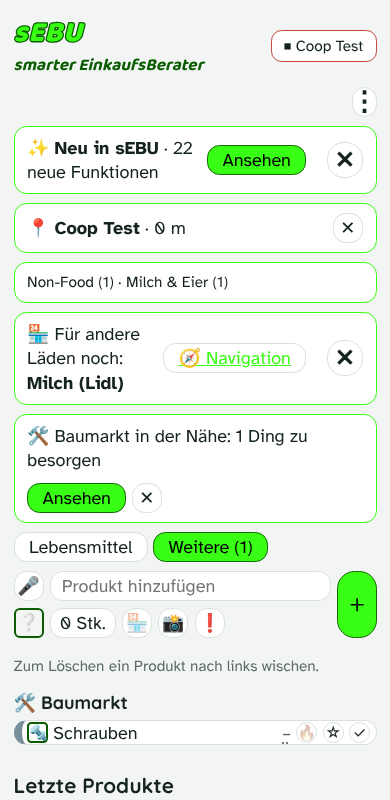
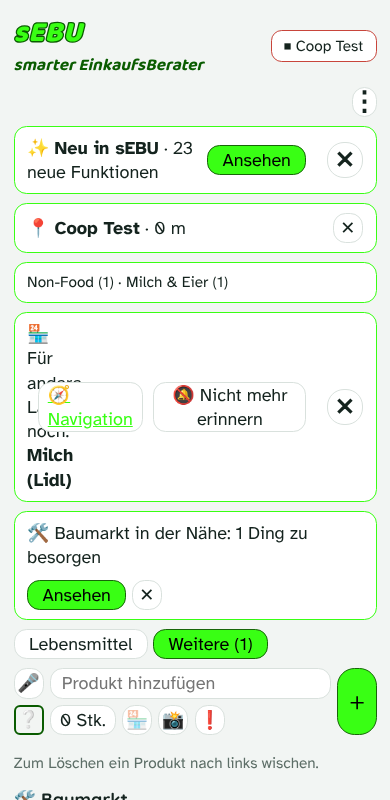
Erinnerung andere Läden: Nicht mehr erinnern
Claude-Session: https://claude.ai/code/session_01D8YzSZq49mBYGwQ71jG7sa

diff --git a/index.html b/index.html
@@ -690,9 +690,10 @@ var REMK=[['open','📲','Bei jedem Öffnen der App'],['start','🛒','Vor dem E
 var remOpen=true,remHid=false;
 function remOf(i){var r=i.rem||S.set.rem||{};return r}
 function otherItems(){var st=S.shop;return S.items.filter(function(i){if(!hasShop(i))return false;if(st){var k=shopNames(i);return k.indexOf(st.store)<0&&k.indexOf(st.chain)<0}return !curMatch(i)})}
-function remBanner(){var l=otherItems().filter(function(i){var r=remOf(i);return r.always||(r.open&&remOpen&&!remHid)||(r.start&&S.shop&&!S.shop.remSeen)});if(!l.length)return'';
+function remList(){return otherItems().filter(function(i){var r=remOf(i);return r.always||(r.open&&remOpen&&!remHid)||(r.start&&S.shop&&!S.shop.remSeen)})}
+function remBanner(){var l=remList();if(!l.length)return'';
  var fix=l.every(function(i){return remOf(i).always}),n=shopNames(l[0])[0];
- return'<div class="ban" style="flex-wrap:nowrap;align-items:center"><span style="flex:1;min-width:0">🏪 '+t('Für andere Läden noch')+': <b>'+esc(itemsTxt(l))+'</b></span>'+mapBtn(n)+(fix?'':'<button class="btn sq dealxb" data-a="remx" aria-label="'+t('Erinnerung ausblenden')+'">✕</button>')+'</div>'}
+ return'<div class="ban" style="flex-wrap:nowrap;align-items:center"><span style="flex:1;min-width:0">🏪 '+t('Für andere Läden noch')+': <b>'+esc(itemsTxt(l))+'</b></span>'+mapBtn(n)+'<button class="btn" data-a="remoff">🔕 '+t('Nicht mehr erinnern')+'</button>'+(fix?'':'<button class="btn sq dealxb" data-a="remx" aria-label="'+t('Erinnerung ausblenden')+'">✕</button>')+'</div>'}
 function remRows(r,pre){return REMK.map(function(k){return'<div class="row" style="flex-wrap:nowrap"><span style="flex:1">'+k[1]+' '+t(k[2])+'</span><input type="checkbox" data-'+pre+'="'+k[0]+'"'+(r[k[0]]?' checked':'')+' style="width:1.4em;height:1.4em"></div>'}).join('')}
 function remSetBlock(){return'<h3 id="remoth">🏪 '+t('Erinnerung an andere Läden')+'</h3><p class="small mute">'+t('Wann soll dich sEBU an Produkte erinnern, die du einem anderen Laden zugeordnet hast? Mehrere möglich.')+'</p>'+remRows(S.set.rem||{},'remg')
   +rowC(t('Beim Zuordnen eines Ladens fragen'),'remAsk',S.set.remAsk!==false)}
@@ -722,7 +723,8 @@ var NEWS=[
  ['n19','🔎','Laden wählen: Zuerst «Neuer Laden hier», dann suchen – oder «Alle anzeigen» für die Liste nach ABC.',[['list','[data-a=storepick]','📍 antippen: oben neuer Laden, darunter die Suche.']]],
  ['n20','💚','Weiterempfehlen: Im Menü findest du den QR-Code zum Speichern und den Link zum Kopieren oder Teilen.',[['list','.menu [data-v=recommend]','Hier unten im Menü.',{'menu':1}]]],
  ['n21','🔎','Hilfe-Suche: Im Menü ⋮ oben «Was suchst du?» eintippen – sEBU bringt dich direkt hin.',[['list','#msq','Hier ein Wort eintippen, zum Beispiel «Erinnerung».',{'menu':1}]]],
- ['n22','✓','«Noch offen» hat neu den Knopf «Erledigt»: Hat es schon jemand gekauft, ist mit einem Tipp alles abgehakt.',null]];
+ ['n22','✓','«Noch offen» hat neu den Knopf «Erledigt»: Hat es schon jemand gekauft, ist mit einem Tipp alles abgehakt.',null],
+ ['n23','🔕','Erinnerung an andere Läden: neu mit «Nicht mehr erinnern» – das Produkt bleibt auf der Liste, der Hinweis ist weg.',null]];
 function newsBanner(){var n=S.ob.done&&S.set.news!==false?newsNew().length:0;if(!n)return'';return'<div class="ban" style="flex-wrap:nowrap;align-items:center"><span style="flex:1">✨ <b>'+t('Neu in sEBU')+'</b> · '+t(n===1?'1 neue Funktion':'{0} neue Funktionen',n)+'</span><button class="btn pri" data-a="newsopen">'+t('Ansehen')+'</button><button class="btn sq dealxb" data-a="newsok" aria-label="'+t('Ausblenden')+'">✕</button></div>'}
 function newsNew(){var i=-1;for(var k=0;k<NEWS.length;k++)if(NEWS[k][0]===S.set.newsSeen)i=k;return NEWS.slice(i+1)}
 function newsSteps(n){return(n[3]||[]).map(function(x){return st(x[0],x[1],x[2],0,Object.assign({ro:1},x[3]||{}))})}
@@ -1206,7 +1208,7 @@ SA('Einkaufsliste',[
  ss('liste','row:Schnellstart-Knopf','⚡ Schnellstart-Knopf: Hol dir einen Bereich aus dem Menü nach vorne. Der Knopf steht oben vor dem Einkaufswagen 🛒.','<b>Wofür geeignet:</b> was du oft brauchst, zum Beispiel ⭐ Favoriten, 🔥 Aktionen oder 🏪 Läden.\n<b>Aus:</b> kein Knopf, die Zeile bleibt ruhig.\n<b>Wenn du den Knopf nicht siehst:</b> Während eines Einkaufs ist die Kopfzeile ausgeblendet. Oder es ist hier «Aus» gewählt.'),
  ss('liste','row:❗ Notfall / dringend','❗ Notfall: Dringende Produkte stehen immer zuoberst, rot umrandet und grösser.','<b>Wofür geeignet:</b> Medikamente, Windeln, Milch fürs Baby – alles, was heute sicher mit muss.\n<b>Wenn es nicht klappt:</b> Ist der ❗-Knopf nicht sichtbar, schalte ihn hier ein.'),
  ss('liste','row:🔎 Strichcode scannen','🔎 Strichcode scannen: Produktinfos wie Nutri-Score und Zutaten aus der freien Datenbank Open Food Facts.','<b>Wofür geeignet:</b> Produkte schnell erfassen und vergleichen.\n<b>So geht es:</b> 📷 antippen, «Strichcode scannen», Strichcode vor die Kamera halten.\n<b>Wenn es nicht klappt:</b> Mehr Licht, Strichcode ruhig und gerade halten, etwa 10 bis 15 cm Abstand. Oder «Foto aufnehmen» oder die Nummer unter dem Strichcode von Hand eingeben.\nKamera muss für Safari erlaubt sein. Nicht jedes Schweizer Produkt ist erfasst, dann kommt «Nicht gefunden».'),
- ss('liste','#remoth','🏪 Erinnerung an andere Läden: Wann soll sEBU dich an Produkte erinnern, die du einem anderen Laden zugeordnet hast? Mehrere möglich.','<b>Bei jedem Öffnen:</b> oben ein Hinweis, mit ✕ bis zum nächsten Öffnen weg.\n<b>Vor dem Einkaufen:</b> beim Tipp auf 🛒.\n<b>Nach dem Einkaufen:</b> «Noch offen» beim Einkaufsende.\n<b>Dauernd:</b> bleibt stehen, bis du das Produkt abhakst.\n<b>Beim Zuordnen fragen:</b> Wählst du für ein Produkt einen Laden, fragt sEBU, wann es erinnern soll.\n<b>Wenn es nervt:</b> Häkchen hier entfernen.'),
+ ss('liste','#remoth','🏪 Erinnerung an andere Läden: Wann soll sEBU dich an Produkte erinnern, die du einem anderen Laden zugeordnet hast? Mehrere möglich.','<b>Bei jedem Öffnen:</b> oben ein Hinweis, mit ✕ bis zum nächsten Öffnen weg.\n<b>Vor dem Einkaufen:</b> beim Tipp auf 🛒.\n<b>Nach dem Einkaufen:</b> «Noch offen» beim Einkaufsende.\n<b>Dauernd:</b> bleibt stehen, bis du das Produkt abhakst.\n<b>Beim Zuordnen fragen:</b> Wählst du für ein Produkt einen Laden, fragt sEBU, wann es erinnern soll.\n<b>Wenn es nervt:</b> im Hinweis «🔕 Nicht mehr erinnern» tippen (nur für diese Produkte) oder die Häkchen hier entfernen.'),
  ss('liste','#remh','🔔 Erinnerung: über das Teilen-Menü oder direkt über einen iPhone-Kurzbefehl.','<b>Teilen-Menü:</b> geht sofort, du wählst dort «Erinnerungen».\n<b>Kurzbefehl:</b> einmal einrichten (Anleitung darunter), danach ohne Suchen.\n<b>Wenn es nicht klappt:</b> Prüfe, ob der Name des Kurzbefehls genau gleich ist, oder schalte die Option aus.')]);
 SA('Einkaufslisten',[
  ss('lists','#app .card','📋 Jede Liste hat einen Namen und auf Wunsch einen Laden. «Allgemein» ist die Standardliste.','<b>Wofür geeignet:</b> Läden, in denen du anders einkaufst, zum Beispiel Aligro, Landi oder der Wochenmarkt.\n<b>Mit Laden:</b> Bist du dort, öffnet sich die Liste von selbst; nach dem Einkauf kehrt sEBU zu «Allgemein» zurück.\n<b>Ohne Laden:</b> Du holst die Liste oben über der Einkaufsliste von Hand hervor.\n<b>Löschen:</b> ✕ – die Produkte kommen in «Allgemein».\n<b>Wenn sich die Liste nicht öffnet:</b> Prüfe, ob der Laden erkannt wird (📍) oder ob der Schalter unten eingeschaltet ist.'),
@@ -1452,6 +1454,7 @@ function act(a,el){var D=el.dataset,i,it;
  case'fsdn':case'fsup':S.set.fs=Math.max(10,Math.min(40,(+S.set.fs||18)+(a==='fsup'?1:-1)));break;
  case'hintsback':S.set.swipeN=0;say(t('Die Hinweise erscheinen wieder.'));break;
  case'dealx':dealHid=true;break;
+ case'remoff':{remList().forEach(function(i){i.rem={open:false,start:false,end:false,always:false}});say(t('Ich erinnere nicht mehr daran. Die Produkte bleiben unter «Geschäfte».'));break}
  case'remx':remHid=true;if(S.shop)S.shop.remSeen=true;break;
  case'remok':{var rr={};document.querySelectorAll('[data-remp]').forEach(function(x){rr[x.dataset.remp]=x.checked});if(sh.id==='draft')draft.rem=rr;else{var ri=findItem(sh.id);if(ri)ri.rem=rr}sh=null;break}
  case'remno':S.set.remAsk=false;sh=null;say(t('Ich frage nicht mehr. Wieder einschalten: Einstellungen → Einkaufsliste.'));break;
@@ -1648,7 +1651,7 @@ var sw0=null,dragId=null,upS=null;
 document.addEventListener('pointerdown',function(e){if(e.target.closest&&e.target.closest('.wheels')&&S.set.tick!==false&&!actx){try{var AC=window.AudioContext||window.webkitAudioContext;if(AC){actx=new AC();var b=actx.createBuffer(1,1,22050),sr=actx.createBufferSource();sr.buffer=b;sr.connect(actx.destination);sr.start(0)}}catch(x){}}},true);
 function catPath(i){var m=i.cat&&cat(i.cat),sb=i.sub&&cat(i.sub);return iconOf(i)+' '+i.name+': '+(m?t('gehört zu')+' '+cname(m)+(sb?' › '+cname(sb):''):t('noch ohne Kategorie'))+'. '+t('Antippen ändert die Kategorie.')}
 /* ===== Erklärung beim Gedrückthalten (2 Sekunden) ===== */
-var HELP={shopstart:'🛒 Einkauf starten: Die App lernt deine Reihenfolge im Laden und sortiert die Liste danach.',storepick:'📍 Laden wählen: von Hand, wenn die Erkennung nicht klappt.',gpsrefresh:'🔄 Laden neu suchen, in dem du gerade bist.',voice:'🎤 Sprache: Produkte sagen statt tippen.',cam:'📷 Strichcode scannen oder den Ratgeber fragen.',catpick:'Kategorie wählen oder ein eigenes Symbol für das Produkt.',qty:'Menge und Einheit ändern.',shopsel:'🏪 Wo kaufst du das? Laden oder Ladentyp wählen.',urgtog:'❗ Dringend: steht immer zuoberst und fällt auf.',add:'＋ Produkt auf die Liste setzen.',fav:'☆ Als Favorit merken.',fsdn:'Schrift kleiner.',enddone:'✓ Erledigt: Die Produkte wurden schon gekauft – abhaken und Hinweis schliessen.',endno:'Hinweis schliessen, Produkte bleiben auf der Liste.',hgo:'Dorthin springen.',qrsave:'QR-Code als Bild speichern oder teilen.',reccopy:'Link in die Zwischenablage kopieren.',recshare:'Link per WhatsApp, SMS oder Mail teilen.',storeall:'Alle Läden nach ABC anzeigen.',quick:'⚡ Schnellstart: öffnet direkt den Bereich, den du unter Einstellungen → Einkaufsliste gewählt hast.',listset:'🧾 Diese Liste aktiv machen. Neues kommt in die aktive Liste.',listpick:'Zu dieser Liste wechseln.',listadd:'Neue Einkaufsliste anlegen.',listdel:'Liste löschen – die Produkte kommen in «Allgemein».',storenew:'Neuen Laden mit deinem aktuellen Standort speichern.',geogo:'Weiter zur Standort-Frage von Safari.',todayno:'Für heute ausblenden.',remnextok:'Erinnerung schliessen.',remnextoff:'Nicht mehr an diese Produkte erinnern.',locsave:'Standort dieses Ladens speichern – stehe dafür im Laden.',locno:'Für diesen Laden nicht mehr fragen.',pricesave:'Preis speichern.',photoview:'Foto gross ansehen, ersetzen oder entfernen.',photodel:'Foto entfernen.',newsopen:'Die neuen Funktionen ansehen.',newsok:'Neuheiten-Hinweis ausblenden. Unter Einstellungen → Einführung jederzeit nachlesbar.',remx:'✕ Erinnerung an andere Läden ausblenden – bis zum nächsten Öffnen.',newsshow:'Kurze Führung zu dieser Neuheit.',newsall:'Alle Neuheiten nochmals ansehen.',dealx:'✕ Aktionshinweis ausblenden. Beim nächsten Öffnen der App erscheint er wieder.',hintsback:'Kleine Hinweise wieder anzeigen.',fsup:'Schrift grösser.',check:'✓ Abhaken. Es kommt zu «Letzte Produkte».',menu:'⋮ Menü mit allen Bereichen.',shopend:'⏹ Einkauf beenden.',undo:'↩ Gelöschtes Produkt zurückholen.',back:'Wieder auf die Liste holen.',todayall:'Für heute merken: Die App erinnert dich heute daran.',remind:'🔔 Erinnerung: in sEBU nach dem nächsten Einkauf oder als iPhone-Erinnerung (einstellbar).'},hpT=null,hp0=null,helpShown=0;
+var HELP={shopstart:'🛒 Einkauf starten: Die App lernt deine Reihenfolge im Laden und sortiert die Liste danach.',storepick:'📍 Laden wählen: von Hand, wenn die Erkennung nicht klappt.',gpsrefresh:'🔄 Laden neu suchen, in dem du gerade bist.',voice:'🎤 Sprache: Produkte sagen statt tippen.',cam:'📷 Strichcode scannen oder den Ratgeber fragen.',catpick:'Kategorie wählen oder ein eigenes Symbol für das Produkt.',qty:'Menge und Einheit ändern.',shopsel:'🏪 Wo kaufst du das? Laden oder Ladentyp wählen.',urgtog:'❗ Dringend: steht immer zuoberst und fällt auf.',add:'＋ Produkt auf die Liste setzen.',fav:'☆ Als Favorit merken.',fsdn:'Schrift kleiner.',remoff:'🔕 Für diese Produkte nicht mehr erinnern. Sie bleiben auf der Liste unter «Geschäfte».',enddone:'✓ Erledigt: Die Produkte wurden schon gekauft – abhaken und Hinweis schliessen.',endno:'Hinweis schliessen, Produkte bleiben auf der Liste.',hgo:'Dorthin springen.',qrsave:'QR-Code als Bild speichern oder teilen.',reccopy:'Link in die Zwischenablage kopieren.',recshare:'Link per WhatsApp, SMS oder Mail teilen.',storeall:'Alle Läden nach ABC anzeigen.',quick:'⚡ Schnellstart: öffnet direkt den Bereich, den du unter Einstellungen → Einkaufsliste gewählt hast.',listset:'🧾 Diese Liste aktiv machen. Neues kommt in die aktive Liste.',listpick:'Zu dieser Liste wechseln.',listadd:'Neue Einkaufsliste anlegen.',listdel:'Liste löschen – die Produkte kommen in «Allgemein».',storenew:'Neuen Laden mit deinem aktuellen Standort speichern.',geogo:'Weiter zur Standort-Frage von Safari.',todayno:'Für heute ausblenden.',remnextok:'Erinnerung schliessen.',remnextoff:'Nicht mehr an diese Produkte erinnern.',locsave:'Standort dieses Ladens speichern – stehe dafür im Laden.',locno:'Für diesen Laden nicht mehr fragen.',pricesave:'Preis speichern.',photoview:'Foto gross ansehen, ersetzen oder entfernen.',photodel:'Foto entfernen.',newsopen:'Die neuen Funktionen ansehen.',newsok:'Neuheiten-Hinweis ausblenden. Unter Einstellungen → Einführung jederzeit nachlesbar.',remx:'✕ Erinnerung an andere Läden ausblenden – bis zum nächsten Öffnen.',newsshow:'Kurze Führung zu dieser Neuheit.',newsall:'Alle Neuheiten nochmals ansehen.',dealx:'✕ Aktionshinweis ausblenden. Beim nächsten Öffnen der App erscheint er wieder.',hintsback:'Kleine Hinweise wieder anzeigen.',fsup:'Schrift grösser.',check:'✓ Abhaken. Es kommt zu «Letzte Produkte».',menu:'⋮ Menü mit allen Bereichen.',shopend:'⏹ Einkauf beenden.',undo:'↩ Gelöschtes Produkt zurückholen.',back:'Wieder auf die Liste holen.',todayall:'Für heute merken: Die App erinnert dich heute daran.',remind:'🔔 Erinnerung: in sEBU nach dem nächsten Einkauf oder als iPhone-Erinnerung (einstellbar).'},hpT=null,hp0=null,helpShown=0;
 document.addEventListener('pointerdown',function(e){if(S.set.lpHelp===false)return;var hb=e.target.closest&&e.target.closest('button[data-a],a.navb,label.btn');if(!hb||hb.closest('.tc'))return;
  hp0={x:e.clientX,y:e.clientY};clearTimeout(hpT);hpT=setTimeout(function(){var it0=hb.dataset.a==='catpick'&&findItem(hb.dataset.id),m=(it0&&catPath(it0))||HELP[hb.dataset.a]||(hb.classList.contains('navb')?'🧭 Navigation: öffnet Google Maps mit dem Laden als Ziel.':'')||hb.getAttribute('aria-label')||hb.title;if(m){helpShown=Date.now();say(t(m),4500);if(navigator.vibrate)navigator.vibrate(20)}},2000)},true);
 document.addEventListener('pointermove',function(e){if(hp0&&Math.abs(e.clientX-hp0.x)+Math.abs(e.clientY-hp0.y)>12)clearTimeout(hpT)},true);

diff --git a/tests/t22.py b/tests/t22.py
@@ -23,5 +23,6 @@ with sync_playwright() as p:
     r=[i for i in st(pg)['items'] if i['name']=='Reis'][0].get('rem');print('item rem',r)
     pg.evaluate("var s=JSON.parse(localStorage.getItem('sebu.v1'));s.shop=null;s.set.rem={open:false,start:false,end:false,always:false};localStorage.setItem('sebu.v1',JSON.stringify(s))");pg.reload()
     print('always stays (Reis, no x)',pg.inner_text('#app').count('Reis (Lidl)'),pg.locator('[data-a=remx]').count())
+    pg.click('[data-a=remoff]');pg.wait_for_timeout(200);print('remoff gone',pg.inner_text('#app').count('Reis (Lidl)'),'still on list',[i['name'] for i in st(pg)['items']].count('Reis'))
     b.close()
 print(errs)

diff --git a/CLAUDE.md b/CLAUDE.md
@@ -40,7 +40,7 @@ Besitzer: Rico Schubiger (GitHub `Schubiger-Rico`), Schweiz, Deutsch. Er arbeite
 - Kategorie-Farben: `cat.color` (frei wählbar unter Kategorien, `data-ccol`), Standard `DEFCOL` für die 14 Hauptkategorien, Unterkategorien erben; Streifen links an der Karte (`catColor`), Schalter `catcol`.
 - Kopfzeile (`shopBar`, Klasse `topbar`): 🛒, 📍, 🔄, 📷 – nur Symbole (🎤 steht in der Eingabezeile vor dem Feld, Klasse `hasmic`); Text «Start»/«Laden» nur mit `S.set.btnText`. Erklärung beim Gedrückthalten (2 s, `HELP`-Texte nach `data-a`, sonst aria-label; Klick danach wird unterdrückt), abschaltbar `S.set.lpHelp`. Neue Knöpfe: HELP-Text ergänzen! Eingabefeld eigene Zeile, wenn Breite/Schrift < 24 (`html.addwrap`, Grid): ＋ rechts doppelt hoch über beide Zeilen.
 - Sprache: 🎤 → Sheet `voice`, `webkitSpeechRecognition` (de-CH), `parseSpeech()` trennt an Komma/«und»/«sowie», Menge vor oder nach dem Produkt, Teil nur mit Menge gehört zum Produkt davor, Füllwörter (`FILL`) weg; Bestätigung mit änderbaren Feldern (`data-vi`) und ✕, dann «＋ n auf die Liste». «stopp» beendet das Zuhören sofort (`vDone`, continuous). Ohne Spracherkennung Hinweis auf Tastatur-Diktat.
-- Erinnerung an andere Läden: `S.set.rem` {open,start,end,always} (Mehrfachauswahl, Einstellungen → Einkaufsliste, `#remoth`), pro Produkt `item.rem` über Abfrage beim Zuordnen eines Ladens (`remask`, abschaltbar `S.set.remAsk`). Banner `remBanner()` (✕ bis zum nächsten Öffnen, bei «dauernd» ohne ✕); «nach dem Einkaufen» = «Noch offen» (`endHint`).
+- Erinnerung an andere Läden: `S.set.rem` {open,start,end,always} (Mehrfachauswahl, Einstellungen → Einkaufsliste, `#remoth`), pro Produkt `item.rem` über Abfrage beim Zuordnen eines Ladens (`remask`, abschaltbar `S.set.remAsk`). Banner `remBanner()` (✕ bis zum nächsten Öffnen, bei «dauernd» ohne ✕; «🔕 Nicht mehr erinnern» `remoff` setzt `item.rem` für die gezeigten Produkte auf alles aus); «nach dem Einkaufen» = «Noch offen» (`endHint`).
 - Produktfoto: `S.photos[name]` (JPEG max. 480 px, `shrinkPhoto`), Knopf 📸 bei der Eingabe (`.phb`, `draft.photo`) und im Bearbeiten; Foto ersetzt das Symbol (`icHtml`, `photoOf`) in Liste/Favoriten/Letzte/Verlauf, Antippen = Sheet `photo` (gross, ersetzen, entfernen, Kategorie ändern); Kategorie bleibt. Nicht im Teilen enthalten.
 - «Heute noch»: Knopf «Heute nicht» (`S.set.todayHide`=Datum). Erinnerung 🔔: `S.set.remMode` 'next' (Standard: `item.remNext`, Banner `remNextBanner` beim nächsten Einkaufsende) oder 'ios' (Teilen/Kurzbefehl wie früher).
 - Eigene Läden ohne Standort: `noLocStores()` (eingetippte Namen, nicht in `allCh`/`S.mine`), Knopf «📍 Hier bin ich – Standort speichern» (`locsave` → `S.mine`) unter Läden und Einstellungen → Filialen (`#noloc`), Frage beim Öffnen `locBanner` (abschaltbar `S.set.locAsk`, pro Laden `S.set.noLoc`).

diff --git a/docs/ENTSCHEIDUNGEN.md b/docs/ENTSCHEIDUNGEN.md
@@ -840,3 +840,4 @@ Stand heute: 1 gebaut; 2 teilweise (Aktionen, aber ohne echte Datenquelle); 3 te
 - **Umgesetzt am 27.11.:** Hilfe-Suche «🔎 Was suchst du?» zuoberst im Menü ⋮: durchsucht Menüpunkte, Einstellungen und alle Führungstexte; Antippen springt direkt hin und hebt die Stelle kurz hervor. In Führung und «Neu in sEBU» (n21).
 - 26./27.11.: Hilfe-Suche versteht ganze Sätze («wie kann ich den Witz ausschalten»): Füllwörter und «abstellen/ausschalten» werden übersprungen, Synonyme (Schriftgrösse→Textgrösse, Dunkelmodus). Nur «abstellen» zeigt alle abschaltbaren Einstellungen zur Auswahl.
 - **Umgesetzt am 27.11.:** «Noch offen» hat den Knopf «✓ Erledigt»: hakt die genannten Produkte ab (schon gekauft) und schliesst den Hinweis. In Führung und «Neu in sEBU» (n22).
+- **Umgesetzt am 27.11.:** Hinweis «Für andere Läden noch» hat den Knopf «🔕 Nicht mehr erinnern» (nur für die gezeigten Produkte; sie bleiben unter «Geschäfte»). In Führung und «Neu in sEBU» (n23).
